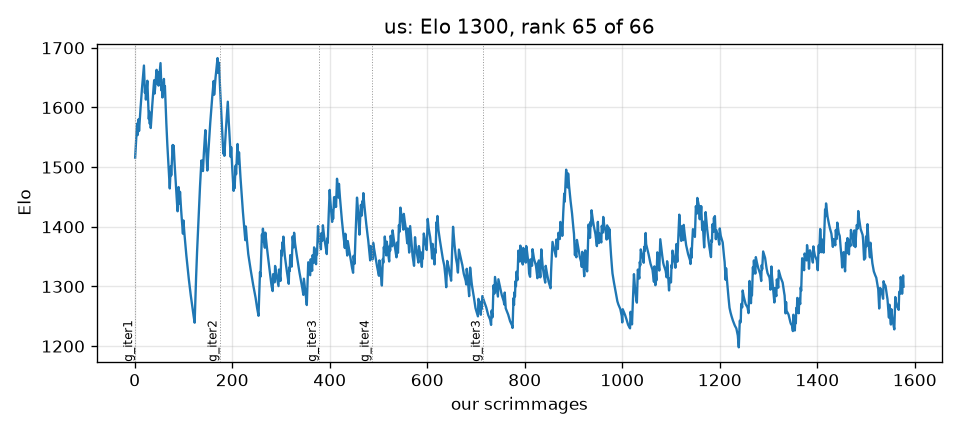
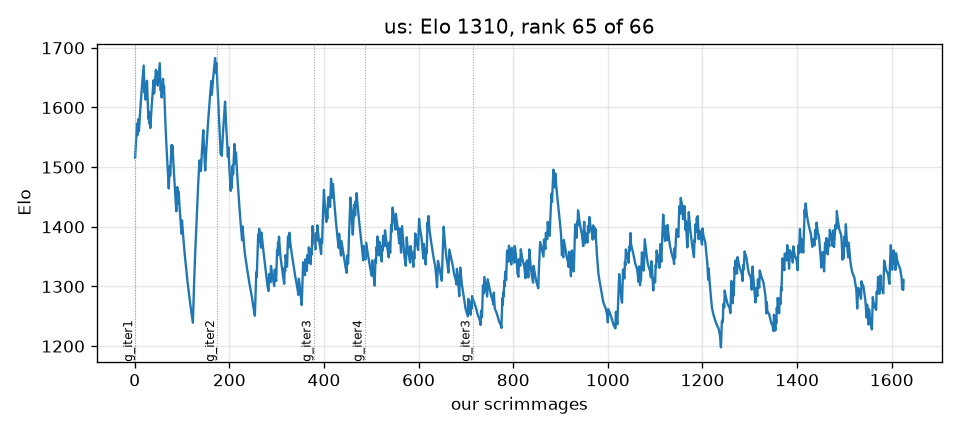
Block 33; Iteration 24 WIP: mason digs beside its post, guards hold fixed slots, center saves for the vaporator
Claude-Session: https://claude.ai/code/session_01CTUHPRaZ9DbYUkpWKYf2Y2

diff --git a/src/bot/Drone.java b/src/bot/Drone.java
@@ -10,7 +10,7 @@ import battlecode.common.*;
  */
 public strictfp class Drone extends Robot {
     private MapLocation water;                 // nearest flooded tile seen
-    private MapLocation patrol;
+    private MapLocation patrol, slot; private int slotK = -1;
     private int pickups = 0, drops = 0, homePickups = 0;
 
     Drone(RobotController rc) { super(rc); avoidRing = true; }
@@ -46,16 +46,28 @@ public strictfp class Drone extends Robot {
             if (rc.canPickUpUnit(tgt.ID)) { rc.pickUpUnit(tgt.ID); pickups++; if (guard) homePickups++; Debug.log("@pickup t=" + tgt.type.ordinal() + " id=" + tgt.ID + " guard=" + guard + " hc=" + Nav.cheb(tgt.location, home == null ? loc : home)); return; }
             if (gun == null || tgt.location.distanceSquaredTo(gun) > 15) { nav.setTarget(tgt.location); nav.step(); return; }
         }
-        // patrol: a guard walks the annulus GUARD_INNER..GUARD_OUTER round the HQ; before that the line from home to the enemy HQ guess
-        if (patrol == null || loc.distanceSquaredTo(patrol) <= (guard ? 2 : 4) || (guard && Nav.cheb(patrol, home) > C.GUARD_OUTER)) {
-            MapLocation g = MapState.enemyHQGuess(), h = home;
-            if (guard) {
-                int r = C.GUARD_INNER + nextInt(C.GUARD_OUTER - C.GUARD_INNER + 1), k = nextInt(8 * r);
-                int dx, dy; if (k < 2 * r) { dx = -r + k; dy = -r; } else if (k < 4 * r) { dx = r; dy = -r + (k - 2 * r); } else if (k < 6 * r) { dx = r - (k - 4 * r); dy = r; } else { dx = -r; dy = r - (k - 6 * r); }
-                patrol = new MapLocation(h.x + dx, h.y + dy);
-                if (!rc.onTheMap(patrol)) patrol = h;
+        // a guard holds one slot on the square at GUARD_RADIUS round the HQ (by id; the next free one if taken) and never wanders:
+        // guards flying between random points crossed the helpers' dig tiles and cost the wall (Prison: 16 guards, ring -23%)
+        if (guard) {
+            if (slot == null || (rc.canSenseLocation(slot) && rc.isLocationOccupied(slot) && !loc.equals(slot))) {
+                int r = C.GUARD_RADIUS, n = 8 * r, k0 = slot == null ? id % n : (slotK + 1) % n;
+                for (int t = 0; t < n; t++) {
+                    int k = (k0 + t) % n; int dx, dy;
+                    if (k < 2 * r) { dx = -r + k; dy = -r; } else if (k < 4 * r) { dx = r; dy = -r + (k - 2 * r); } else if (k < 6 * r) { dx = r - (k - 4 * r); dy = r; } else { dx = -r; dy = r - (k - 6 * r); }
+                    MapLocation s = new MapLocation(home.x + dx, home.y + dy);
+                    if (!rc.onTheMap(s)) continue;
+                    if (rc.canSenseLocation(s) && rc.isLocationOccupied(s) && !s.equals(loc)) continue;
+                    slot = s; slotK = k; break;
+                }
+                if (slot == null) slot = loc;
             }
-            else if (g != null && h != null) { int t = nextInt(5); patrol = new MapLocation(h.x + (g.x - h.x) * t / 5, h.y + (g.y - h.y) * t / 5); }
+            if (!loc.equals(slot)) { nav.setTarget(slot); nav.step(); }
+            return;
+        }
+        // patrol: the line from home to the enemy HQ guess
+        if (patrol == null || loc.distanceSquaredTo(patrol) <= 4) {
+            MapLocation g = MapState.enemyHQGuess(), h = home;
+            if (g != null && h != null) { int t = nextInt(5); patrol = new MapLocation(h.x + (g.x - h.x) * t / 5, h.y + (g.y - h.y) * t / 5); }
             else patrol = new MapLocation(loc.x + nextInt(21) - 10, loc.y + nextInt(21) - 10);
         }
         nav.setTarget(patrol); if (!nav.step()) patrol = null;

diff --git a/src/bot/FulfillmentCenter.java b/src/bot/FulfillmentCenter.java
@@ -7,9 +7,16 @@ public strictfp class FulfillmentCenter extends Robot {
     private int built = 0;
     FulfillmentCenter(RobotController rc) { super(rc); }
     @Override protected void turn() throws GameActionException {
+        if (round == birth) { sense(); readBack(12); }   // Iteration 24: a perch center learns home (in sight) and the perch (posted every 10 rounds until r600)
         int soup = rc.getTeamSoup();
         int round = rc.getRoundNum();
-        boolean want = round >= 700 ? built < C.DRONES_LATE_MAX && soup >= RobotType.DELIVERY_DRONE.cost + C.DRONE_LATE_RESERVE   // Iteration 24: a center that outlived the flood spends the idle soup on guards
+        int reserve = C.DRONE_LATE_RESERVE;
+        if (round < C.VAPORATOR_FIRST_UNTIL && MapState.perch != null && MapState.home != null) {   // Iteration 24: the vaporator (2 soup a round for 1,500 rounds) comes before the drones
+            MapLocation v = MapState.perchV();
+            RobotInfo r = rc.canSenseLocation(v) ? rc.senseRobotAtLocation(v) : null;
+            if (r == null || r.type != RobotType.VAPORATOR) reserve = RobotType.VAPORATOR.cost - RobotType.DELIVERY_DRONE.cost;
+        }
+        boolean want = round >= 700 ? built < C.DRONES_LATE_MAX && soup >= RobotType.DELIVERY_DRONE.cost + reserve   // Iteration 24: a center that outlived the flood spends the idle soup on guards
                      : built < C.DRONES_MAX && soup >= RobotType.DELIVERY_DRONE.cost + (round < C.DRONE_ROUND ? C.DRONE_EARLY_BANK : C.DRONE_RESERVE);
         if (want && tryBuild(RobotType.DELIVERY_DRONE, null)) built++;
     }

diff --git a/src/bot/Landscaper.java b/src/bot/Landscaper.java
@@ -165,7 +165,7 @@ public strictfp class Landscaper extends Robot {
         // 3. dig from a tile outside both rings (lowest first), never under a building or the HQ
         Direction bestD = null; int be = Integer.MAX_VALUE;
         for (int i = 8; --i >= 0;) { Direction d = DIRS[i]; MapLocation n = loc.add(d);
-            if (!rc.onTheMap(n) || Nav.cheb(n, home) <= 2 || !rc.canDigDirt(d) || MapState.isPerch(n)) continue;   // Iteration 24: never dig the perch
+            if (!rc.onTheMap(n) || Nav.cheb(n, home) <= (loc.equals(MapState.perch) ? 1 : 2) || !rc.canDigDirt(d) || MapState.isPerch(n) || n.equals(post)) continue;   // Iteration 24: never dig the perch; the mason, whose outside neighbours are all perch tiles, digs the pits beside it
             RobotInfo r = rc.canSenseLocation(n) ? rc.senseRobotAtLocation(n) : null; if (r != null && (r.type.isBuilding() || r.team == us)) continue;
             int e = rc.senseElevation(n); if (e < be) { be = e; bestD = d; } }
         if (bestD == null && rc.canDigDirt(Direction.CENTER) && rc.senseElevation(loc) > waterLevel(round + 200) + 3) bestD = Direction.CENTER;   // nothing outside: eat our own margin

diff --git a/src/bot/C.java b/src/bot/C.java
@@ -44,9 +44,10 @@ public final class C {
     public static final int PERCH_GIVEUP_ROUND = 650;  // the builder leaves an unraised perch at this round and builds as before
     public static final int PERCH_STALL = 40;         // builder turns stalled on the way to B before giving the perch up
     public static final int DRONE_LATE_RESERVE = 0;   // after the flood every 150 soup is a drone ...
+    public static final int VAPORATOR_FIRST_UNTIL = 1000;   // ... but the perch center saves for the vaporator (500) until this round
     public static final int DRONES_LATE_MAX = 16;     // ... up to this many from the perch center (40 on Prison blocked the helpers' digging)
     public static final int CHASE_RADIUS = 8;         // Chebyshev from the HQ
-    public static final int GUARD_INNER = 5, GUARD_OUTER = 7;   // the patrol annulus: distance 2 is the helpers' tier and 3-4 their dig sources (Prison: 40 parked drones starved the wall, ring 1040 vs 1598)
+    public static final int GUARD_RADIUS = 6;         // guards hold slots on this square round the HQ: distance 2 is the helpers' tier, 3-4 their dig sources
 
 
     // --- wall

diff --git a/progress/ONSET.md b/progress/ONSET.md
@@ -1,6 +1,6 @@
 # Which metric starts predicting the result first
 
-22 games, 6 wins. Noise floor about 0.43; a correlation inside that band is not evidence.
+19 games, 6 wins. Noise floor about 0.46; a correlation inside that band is not evidence.
 
 Every metric is oriented so **higher is better for us**, so a positive correlation always means
 "this being better goes with winning". `~avg` is the running mean over all rounds so far rather than
@@ -12,46 +12,46 @@ See `progress/METRICS.md` for how each quantity is computed.
 
 | onset | anti | metric | peak corr | r100 | r200 | r300 | r400 | r600 | r900 |
 |---|---|---|---|---|---|---|---|---|---|
-| r150 | - | digs (us-them) | +0.70 | +0.18 | +0.46 | +0.56 | +0.51 | +0.66 | +0.68 |
-| r150 | - | dirtDeps (us-them) | +0.63 | +0.25 | +0.41 | +0.44 | +0.41 | +0.55 | +0.57 |
-| r150 | - | dirtDeps (us-them) ~avg | +0.64 | +0.25 | +0.39 | +0.43 | +0.38 | +0.51 | +0.58 |
-| r150 | - | landscapers (us-them) | +0.70 | +0.06 | +0.52 | +0.70 | +0.69 | +0.41 | +0.49 |
-| r150 | - | landscapers (us-them) ~avg | +0.73 | +0.06 | +0.42 | +0.61 | +0.62 | +0.71 | +0.63 |
-| r150 | - | mines (us-them) | +0.66 | +0.29 | +0.44 | +0.51 | +0.52 | +0.59 | +0.66 |
-| r150 | - | mines (us-them) ~avg | +0.64 | +0.26 | +0.40 | +0.47 | +0.50 | +0.56 | +0.64 |
-| r150 | - | robots (us-them) | +0.63 | +0.26 | +0.60 | +0.60 | +0.52 | +0.47 | +0.48 |
-| r150 | - | robots (us-them) ~avg | +0.59 | +0.17 | +0.48 | +0.59 | +0.55 | +0.53 | +0.54 |
-| r150 | - | spawned (us-them) | +0.64 | +0.27 | +0.59 | +0.60 | +0.53 | +0.48 | +0.52 |
-| r150 | - | spawned (us-them) ~avg | +0.59 | +0.18 | +0.48 | +0.59 | +0.56 | +0.55 | +0.57 |
-| r150 | - | units (us-them) | +0.63 | +0.20 | +0.54 | +0.59 | +0.53 | +0.41 | +0.49 |
-| r150 | - | worth (us-them) | +0.51 | +0.21 | +0.49 | +0.47 | +0.44 | +0.46 | +0.47 |
-| r150 | - | worth (us-them) ~avg | +0.51 | +0.20 | +0.41 | +0.47 | +0.46 | +0.47 | +0.50 |
-| r200 | - | digs (us-them) ~avg | +0.73 | +0.18 | +0.42 | +0.52 | +0.48 | +0.63 | +0.70 |
-| r200 | - | pickups (us-them) | +0.40 | -0.36 | +0.35 | +0.35 | +0.34 | +0.34 | +0.22 |
-| r200 | - | units (us-them) ~avg | +0.57 | +0.06 | +0.41 | +0.57 | +0.53 | +0.52 | +0.55 |
-| r300 | - | drones (us-them) | +0.48 | +0.15 | +0.25 | +0.30 | +0.35 | +0.23 | +0.46 |
-| r300 | r100 | pickups (us-them) ~avg | +0.38 | -0.36 | +0.10 | +0.31 | +0.31 | +0.38 | +0.26 |
-| r350 | - | soup (us-them) | +0.37 | -0.18 | +0.19 | +0.27 | +0.24 | +0.16 | +0.37 |
-| r450 | - | cov (us-them) | +0.59 | -0.18 | +0.16 | +0.21 | +0.28 | +0.40 | +0.54 |
-| r500 | - | cov (us-them) ~avg | +0.52 | -0.22 | +0.03 | +0.13 | +0.19 | +0.35 | +0.45 |
-| r500 | - | drones (us-them) ~avg | +0.43 | +0.15 | +0.22 | +0.26 | +0.29 | +0.29 | +0.43 |
-| r500 | - | miners (us-them) | +0.37 | +0.15 | +0.20 | +0.24 | +0.17 | +0.33 | +0.36 |
-| r500 | - | moves (us-them) | +0.41 | -0.32 | -0.03 | +0.16 | +0.23 | +0.35 | +0.41 |
-| r550 | - | vaporators (us-them) | +0.40 | +0.04 | -0.11 | -0.04 | +0.08 | +0.36 | +0.37 |
-| r650 | - | moves (us-them) ~avg | +0.39 | -0.33 | -0.08 | +0.06 | +0.13 | +0.29 | +0.39 |
-| r650 | - | netguns (us-them) | +0.45 | . | . | . | +0.12 | +0.18 | +0.35 |
-| r700 | - | miners (us-them) ~avg | +0.36 | -0.00 | +0.12 | +0.23 | +0.20 | +0.27 | +0.36 |
-| r750 | - | vaporators (us-them) ~avg | +0.35 | +0.04 | -0.10 | -0.07 | +0.06 | +0.21 | +0.34 |
-| r800 | - | netguns (us-them) ~avg | +0.35 | . | . | . | +0.12 | +0.15 | +0.32 |
-| - | - | aba (us-them) [inverted] | -0.21 | -0.14 | -0.06 | +0.07 | +0.19 | +0.17 | +0.13 |
-| - | - | aba (us-them) [inverted] ~avg | -0.21 | -0.16 | -0.11 | -0.01 | +0.11 | +0.17 | +0.16 |
-| - | - | died (us-them) [inverted] | +0.29 | -0.13 | +0.23 | +0.24 | +0.24 | +0.20 | -0.11 |
-| - | - | died (us-them) [inverted] ~avg | +0.26 | -0.13 | +0.07 | +0.26 | +0.22 | +0.23 | +0.03 |
+| r50 | - | aba (us-them) [inverted] | +0.55 | +0.52 | +0.53 | +0.53 | +0.52 | +0.46 | +0.37 |
+| r50 | - | aba (us-them) [inverted] ~avg | +0.61 | +0.51 | +0.49 | +0.52 | +0.54 | +0.51 | +0.53 |
+| r50 | - | robots (us-them) | +0.61 | +0.33 | +0.23 | +0.45 | +0.52 | +0.59 | +0.43 |
+| r50 | - | robots (us-them) ~avg | +0.60 | +0.43 | +0.31 | +0.49 | +0.51 | +0.60 | +0.48 |
+| r50 | - | spawned (us-them) | +0.60 | +0.33 | +0.23 | +0.50 | +0.54 | +0.60 | +0.43 |
+| r50 | - | spawned (us-them) ~avg | +0.62 | +0.43 | +0.31 | +0.51 | +0.54 | +0.62 | +0.50 |
+| r50 | - | units (us-them) ~avg | +0.62 | +0.31 | +0.24 | +0.40 | +0.45 | +0.60 | +0.52 |
+| r100 | - | worth (us-them) | +0.54 | +0.33 | +0.31 | +0.43 | +0.50 | +0.53 | +0.38 |
+| r100 | - | worth (us-them) ~avg | +0.53 | +0.33 | +0.33 | +0.49 | +0.50 | +0.53 | +0.43 |
+| r150 | - | landscapers (us-them) | +0.62 | +0.29 | +0.29 | +0.26 | +0.34 | +0.61 | +0.56 |
+| r150 | - | landscapers (us-them) ~avg | +0.64 | +0.29 | +0.35 | +0.27 | +0.32 | +0.60 | +0.58 |
+| r150 | - | soup (us-them) | +0.44 | -0.02 | +0.42 | +0.16 | +0.29 | +0.29 | +0.09 |
+| r200 | - | soup (us-them) ~avg | -0.39 | -0.13 | +0.31 | +0.28 | +0.34 | +0.35 | +0.26 |
+| r300 | - | drones (us-them) | +0.43 | +0.28 | +0.03 | +0.39 | +0.43 | +0.43 | +0.36 |
+| r300 | - | drones (us-them) ~avg | +0.43 | +0.28 | +0.19 | +0.39 | +0.42 | +0.43 | +0.38 |
+| r300 | - | mines (us-them) | +0.59 | +0.09 | +0.02 | +0.46 | +0.54 | +0.58 | +0.45 |
+| r300 | - | mines (us-them) ~avg | +0.59 | +0.07 | +0.08 | +0.50 | +0.52 | +0.58 | +0.49 |
+| r300 | - | pickups (us-them) | +0.48 | . | +0.31 | +0.32 | +0.46 | +0.45 | +0.41 |
+| r300 | - | pickups (us-them) ~avg | +0.47 | . | +0.30 | +0.31 | +0.39 | +0.45 | +0.42 |
+| r300 | - | units (us-them) | +0.62 | +0.19 | +0.16 | +0.40 | +0.49 | +0.62 | +0.48 |
+| r400 | - | miners (us-them) | +0.49 | -0.04 | -0.05 | +0.26 | +0.39 | +0.46 | +0.27 |
+| r400 | - | miners (us-them) ~avg | +0.49 | +0.17 | +0.01 | +0.25 | +0.30 | +0.40 | +0.31 |
+| r500 | - | cov (us-them) | +0.46 | +0.09 | -0.04 | +0.25 | +0.26 | +0.37 | +0.41 |
+| r500 | r950 | died (us-them) [inverted] | +0.45 | . | +0.05 | -0.02 | +0.18 | +0.45 | -0.03 |
+| r500 | - | digs (us-them) | +0.67 | +0.14 | +0.25 | +0.25 | +0.26 | +0.48 | +0.65 |
+| r500 | - | dirtDeps (us-them) | +0.70 | +0.12 | +0.23 | +0.21 | +0.23 | +0.46 | +0.68 |
+| r550 | - | digs (us-them) ~avg | +0.66 | +0.14 | +0.25 | +0.23 | +0.25 | +0.36 | +0.51 |
+| r550 | - | moves (us-them) | +0.40 | -0.08 | +0.02 | +0.19 | +0.20 | +0.36 | +0.33 |
+| r600 | - | cov (us-them) ~avg | +0.41 | -0.06 | -0.08 | +0.13 | +0.21 | +0.30 | +0.33 |
+| r600 | - | died (us-them) [inverted] ~avg | +0.33 | . | +0.08 | +0.02 | +0.08 | +0.31 | +0.17 |
+| r600 | - | dirtDeps (us-them) ~avg | +0.70 | +0.12 | +0.23 | +0.19 | +0.21 | +0.33 | +0.50 |
+| r950 | - | moves (us-them) ~avg | +0.33 | -0.14 | -0.00 | +0.17 | +0.19 | +0.28 | +0.29 |
 | - | - | drowned (us-them) [inverted] | . | . | . | . | . | . | . |
 | - | - | drowned (us-them) [inverted] ~avg | . | . | . | . | . | . | . |
-| - | - | hqBuried (us-them) [inverted] | +0.13 | . | +0.13 | +0.13 | . | . | . |
-| - | - | hqBuried (us-them) [inverted] ~avg | +0.13 | . | +0.13 | +0.13 | +0.12 | +0.13 | . |
-| - | - | soup (us-them) ~avg | +0.28 | -0.10 | -0.02 | +0.10 | +0.25 | +0.21 | +0.26 |
+| - | - | hqBuried (us-them) [inverted] | +0.16 | +0.16 | . | . | . | . | +0.13 |
+| - | - | hqBuried (us-them) [inverted] ~avg | +0.16 | +0.16 | . | . | . | . | +0.13 |
+| - | - | netguns (us-them) | +0.27 | . | . | . | . | +0.00 | +0.05 |
+| - | - | netguns (us-them) ~avg | +0.13 | . | . | . | . | +0.00 | +0.05 |
+| - | - | vaporators (us-them) | +0.29 | -0.20 | -0.03 | +0.24 | +0.26 | +0.28 | +0.26 |
+| - | - | vaporators (us-them) ~avg | +0.28 | -0.20 | -0.11 | +0.22 | +0.24 | +0.27 | +0.25 |
 
 **Reading it.** Earliest onset is the first place to look: temporal precedence is the one causal hint a
 correlation can honestly give. Late-onset metrics are usually the scoreboard rather than the cause -- by then

diff --git a/BENCHMARK.md b/BENCHMARK.md
@@ -61,7 +61,7 @@ every recorded block; the tier is the most recent build's record against that op
 | `EmaPajic.Mark3` | EmaPajic_Battlecode-2020 (c060a22) | - | - | untested |  |
 | `EmaPajic.Mark4` | EmaPajic_Battlecode-2020 (c060a22) | - | - | untested |  |
 | `EmaPajic.Mark5` | EmaPajic_Battlecode-2020 (c060a22) | - | - | untested |  |
-| `EmaPajic.Qualifications` | EmaPajic_Battlecode-2020 (c060a22) | 0 | 12 | locked | 20 0 17 0 |
+| `EmaPajic.Qualifications` | EmaPajic_Battlecode-2020 (c060a22) | 0 | 12 | locked | 20 0 19 0 |
 | `EmaPajic.SeedingBot` | EmaPajic_Battlecode-2020 (c060a22) | - | - | untested |  |
 | `GabrielDWu.basicbot` | GabrielDWu_blezers-battlecode2020 (c0283f8) | - | - | untested |  |
 | `GabrielDWu.blezerbot` | GabrielDWu_blezers-battlecode2020 (c0283f8) | - | - | untested |  |
@@ -170,11 +170,11 @@ every recorded block; the tier is the most recent build's record against that op
 | `benzyx.espada` | benzyx_bc20-waterloo (05df2e7) | - | - | untested |  |
 | `benzyx.firstplayer` | benzyx_bc20-waterloo (05df2e7) | - | - | untested |  |
 | `benzyx.kurobot` | benzyx_bc20-waterloo (05df2e7) | - | - | untested |  |
-| `benzyx.seeding` | benzyx_bc20-waterloo (05df2e7) | 40 | 15 | target | 25 17 49 40 |
+| `benzyx.seeding` | benzyx_bc20-waterloo (05df2e7) | 40 | 15 | target | 25 17 51 40 |
 | `benzyx.tortuga` | benzyx_bc20-waterloo (05df2e7) | - | - | untested |  |
 | `charboltron.master_player` | charboltron_pdx_battlecode_2020_team_11 (f78f1e3) | - | - | untested |  |
 | `charboltron.team11newbot` | charboltron_pdx_battlecode_2020_team_11 (f78f1e3) | 100 | 1 | peer(>90 once) | 100 |
-| `cormackikkert.whyPermutator` | cormackikkert_battlecode2020 (4d230c4) | 40 | 15 | target | 25 17 38 40 |
+| `cormackikkert.whyPermutator` | cormackikkert_battlecode2020 (4d230c4) | 40 | 15 | target | 25 17 37 40 |
 | `cormackikkert.whyPermutatorOld` | cormackikkert_battlecode2020 (4d230c4) | - | - | untested |  |
 | `cosimogonnelli.Team3player` | cosimogonnelli_CS454-554-SE (d7dc657) | 80 | 5 | peer | 80 |
 | `cs454-w20-team3.oldbot` | cs454-w20-team3_team3-bot (502c334) | - | - | untested |  |
@@ -202,7 +202,7 @@ every recorded block; the tier is the most recent build's record against that op
 | `kylittle.deliriumv1` | kylittle_DeliriumBattlecode (17a94dd) | - | - | untested |  |
 | `kylittle.qualsbot` | kylittle_DeliriumBattlecode (17a94dd) | - | - | untested |  |
 | `kylittle.qualsbot2` | kylittle_DeliriumBattlecode (17a94dd) | 100 | 1 | peer(>90 once) | 100 |
-| `laurenschneider.pdx_team_one` | laurenschneider_battlecode20-PDXTeamOne (2965376) | 14 | 14 | locked | 0 50 36 14 |
+| `laurenschneider.pdx_team_one` | laurenschneider_battlecode20-PDXTeamOne (2965376) | 14 | 14 | locked | 0 50 37 14 |
 | `lfchain.bigBudsBot` | lfchain_Battlecode2020 (b026153) | 100 | 1 | peer(>90 once) | 100 |
 | `lfchain.fBot` | lfchain_Battlecode2020 (b026153) | - | - | untested |  |
 | `lfchain.jBot` | lfchain_Battlecode2020 (b026153) | - | - | untested |  |
@@ -245,7 +245,7 @@ every recorded block; the tier is the most recent build's record against that op
 | `mvpatel2000.oldhades` | mvpatel2000_Battlecode2020 (554943e) | - | - | untested |  |
 | `mvpatel2000.poseidon` | mvpatel2000_Battlecode2020 (554943e) | - | - | untested |  |
 | `mvpatel2000.quail` | mvpatel2000_Battlecode2020 (554943e) | - | - | untested |  |
-| `mvpatel2000.qual` | mvpatel2000_Battlecode2020 (554943e) | 13 | 15 | locked | 0 8 25 13 |
+| `mvpatel2000.qual` | mvpatel2000_Battlecode2020 (554943e) | 13 | 15 | locked | 0 8 24 13 |
 | `mvpatel2000.qualAttacc` | mvpatel2000_Battlecode2020 (554943e) | - | - | untested |  |
 | `mvpatel2000.qualNoAtacc` | mvpatel2000_Battlecode2020 (554943e) | - | - | untested |  |
 | `mvpatel2000.seeding` | mvpatel2000_Battlecode2020 (554943e) | - | - | untested |  |
@@ -279,7 +279,7 @@ every recorded block; the tier is the most recent build's record against that op
 | `poortho.rush` | poortho_battlecode-2020 (ebbd61e) | - | - | untested |  |
 | `poortho.rush_bot` | poortho_battlecode-2020 (ebbd61e) | - | - | untested |  |
 | `poortho.stable_miner1` | poortho_battlecode-2020 (ebbd61e) | - | - | untested |  |
-| `poortho.stable_seeding_bot` | poortho_battlecode-2020 (ebbd61e) | 31 | 16 | target | 0 17 24 31 |
+| `poortho.stable_seeding_bot` | poortho_battlecode-2020 (ebbd61e) | 31 | 16 | target | 0 17 23 31 |
 | `ps789.dennisTestPlayer` | ps789_AZBattlecode (f1d54ab) | - | - | untested |  |
 | `ps789.phillipTestPlayer` | ps789_AZBattlecode (f1d54ab) | - | - | untested |  |
 | `ronniesong0809.finalbota` | ronniesong0809_battlecode20-RADS (1cee065) | 7 | 15 | locked | 0 18 15 7 |
@@ -325,7 +325,7 @@ every recorded block; the tier is the most recent build's record against that op
 | `willBoyd8.droideka` | willBoyd8_BattleDroid (4b1d4ad) | - | - | untested |  |
 | `willBoyd8.empire` | willBoyd8_BattleDroid (4b1d4ad) | - | - | untested |  |
 | `willBoyd8.mouse` | willBoyd8_BattleDroid (4b1d4ad) | - | - | untested |  |
-| `winkelmantanner.tannerplayer` | winkelmantanner_battlecode2020_the-levee-builders (7f49f11) | 23 | 13 | target | 0 25 17 23 |
+| `winkelmantanner.tannerplayer` | winkelmantanner_battlecode2020_the-levee-builders (7f49f11) | 23 | 13 | target | 0 25 16 23 |
 | `wpine215.stardustv1` | wpine215_battlecode (d570d57) | - | - | untested |  |
 | `wpine215.stardustv2` | wpine215_battlecode (d570d57) | 65 | 17 | peer | 0 30 51 65 |
 | `yaonam.Robot_1` | yaonam_battlecode2020 (bb363f5) | 62 | 8 | peer | 62 |

diff --git a/progress/ELO.md b/progress/ELO.md
@@ -1,20 +1,20 @@
 # Elo ladder
 
-1577 scrimmages (ours only); K=32 from 1500; our team is **us**: rank 65 of 66 rated bots, Elo 1300, 1577 games; 0 bots not yet met.
+1625 scrimmages (ours only); K=32 from 1500; our team is **us**: rank 65 of 66 rated bots, Elo 1310, 1625 games; 0 bots not yet met.
 
 | rank | bot | Elo | games | W-L (theirs) |
 |---|---|---|---|---|
-| 1 | awesomelemonade.citricsky | 1838 | 101 | 99-2 |
-| 2 | uvafan.v14_final_bot | 1806 | 90 | 88-2 |
-| 3 | AngusRitossa.newbot | 1783 | 101 | 96-5 |
-| 4 | rzhan11.quals_bot | 1740 | 93 | 86-7 |
-| 5 | IvanGeffner.finalbota | 1671 | 97 | 85-12 |
-| 6 | ronniesong0809.finalbota | 1664 | 98 | 85-13 |
-| 7 | EmaPajic.Qualifications | 1628 | 93 | 81-12 |
-| 8 | winkelmantanner.tannerplayer | 1603 | 93 | 76-17 |
-| 9 | battlecode20-team4.finalbota | 1578 | 96 | 76-20 |
-| 10 | mvpatel2000.qual | 1554 | 100 | 80-20 |
-| 11 | poortho.stable_seeding_bot | 1508 | 94 | 72-22 |
+| 1 | awesomelemonade.citricsky | 1845 | 105 | 103-2 |
+| 2 | uvafan.v14_final_bot | 1814 | 94 | 92-2 |
+| 3 | AngusRitossa.newbot | 1790 | 105 | 100-5 |
+| 4 | rzhan11.quals_bot | 1749 | 96 | 89-7 |
+| 5 | IvanGeffner.finalbota | 1687 | 101 | 89-12 |
+| 6 | ronniesong0809.finalbota | 1647 | 101 | 87-14 |
+| 7 | winkelmantanner.tannerplayer | 1619 | 96 | 79-17 |
+| 8 | EmaPajic.Qualifications | 1577 | 96 | 82-14 |
+| 9 | mvpatel2000.qual | 1569 | 102 | 82-20 |
+| 10 | battlecode20-team4.finalbota | 1568 | 100 | 79-21 |
+| 11 | poortho.stable_seeding_bot | 1526 | 96 | 74-22 |
 | 12 | ovimura.welovesoup | 1491 | 1 | 0-1 |
 | 13 | TeamSerpentine.eendagsvliegjes | 1491 | 1 | 0-1 |
 | 14 | orionquick.aldebaranplayer | 1491 | 1 | 0-1 |
@@ -53,9 +53,9 @@
 | 47 | ARognes.FinalSubmission | 1487 | 5 | 2-3 |
 | 48 | cosimogonnelli.Team3player | 1480 | 5 | 1-4 |
 | 49 | yaonam.Robot_1 | 1474 | 8 | 3-5 |
-| 50 | laurenschneider.pdx_team_one | 1472 | 99 | 66-33 |
-| 51 | VinayaBhat.team10pdx | 1472 | 7 | 2-5 |
-| 52 | Tim-gubski.AngryWaffleMaker | 1463 | 7 | 2-5 |
+| 50 | VinayaBhat.team10pdx | 1472 | 7 | 2-5 |
+| 51 | Tim-gubski.AngryWaffleMaker | 1463 | 7 | 2-5 |
+| 52 | laurenschneider.pdx_team_one | 1460 | 101 | 67-34 |
 | 53 | denver-blake.sprint | 1454 | 5 | 0-5 |
 | 54 | KyleHassold.sprintbot | 1448 | 5 | 0-5 |
 | 55 | J-J-Chen.player | 1441 | 5 | 0-5 |
@@ -63,10 +63,10 @@
 | 57 | GabrielDWu.buildawall2 | 1432 | 5 | 0-5 |
 | 58 | cs454-w20-team3.playbot | 1431 | 10 | 4-6 |
 | 59 | A9ine.potato | 1424 | 5 | 0-5 |
-| 60 | benzyx.seeding | 1417 | 88 | 51-37 |
-| 61 | 9mAhmad.lostincoordinates | 1412 | 5 | 0-5 |
+| 60 | 9mAhmad.lostincoordinates | 1412 | 5 | 0-5 |
+| 61 | cormackikkert.whyPermutator | 1410 | 98 | 64-34 |
 | 62 | 9mAhmad.MahinBot | 1398 | 5 | 0-5 |
-| 63 | cormackikkert.whyPermutator | 1390 | 94 | 61-33 |
-| 64 | mhahn2003.nonrush | 1387 | 21 | 9-12 |
-| 65 | **us** | 1300 | 1577 | 400-1177 |
-| 66 | wpine215.stardustv2 | 1278 | 96 | 49-47 |
+| 63 | mhahn2003.nonrush | 1387 | 21 | 9-12 |
+| 64 | benzyx.seeding | 1379 | 90 | 51-39 |
+| 65 | **us** | 1310 | 1625 | 410-1215 |
+| 66 | wpine215.stardustv2 | 1281 | 100 | 51-49 |

diff --git a/TRAINING_LOG.md b/TRAINING_LOG.md
@@ -974,6 +974,10 @@ survives: the guard role itself (shown on Prison) and the finding that our drone
 on the ladder. The drones must come from soup the mirror does not value -- the post-flood soup
 (1,300 idle at r1200), which needs a center that outlives the flood: Iteration 24.
 
+## Block 33 -- g_iter3 against the challenge pool (run block33, 2026-09-24)
+
+48 games: **10/48 (20%)**; cumulative for g_iter3 220/1020 (21.5%). Elo 1310, rank 65 of 66.
+
 ## Block 32 -- g_iter3 against the challenge pool (run block32, 2026-09-24)
 
 48 games: **9/48 (19%)**; cumulative for g_iter3 210/972 (21.6%).
